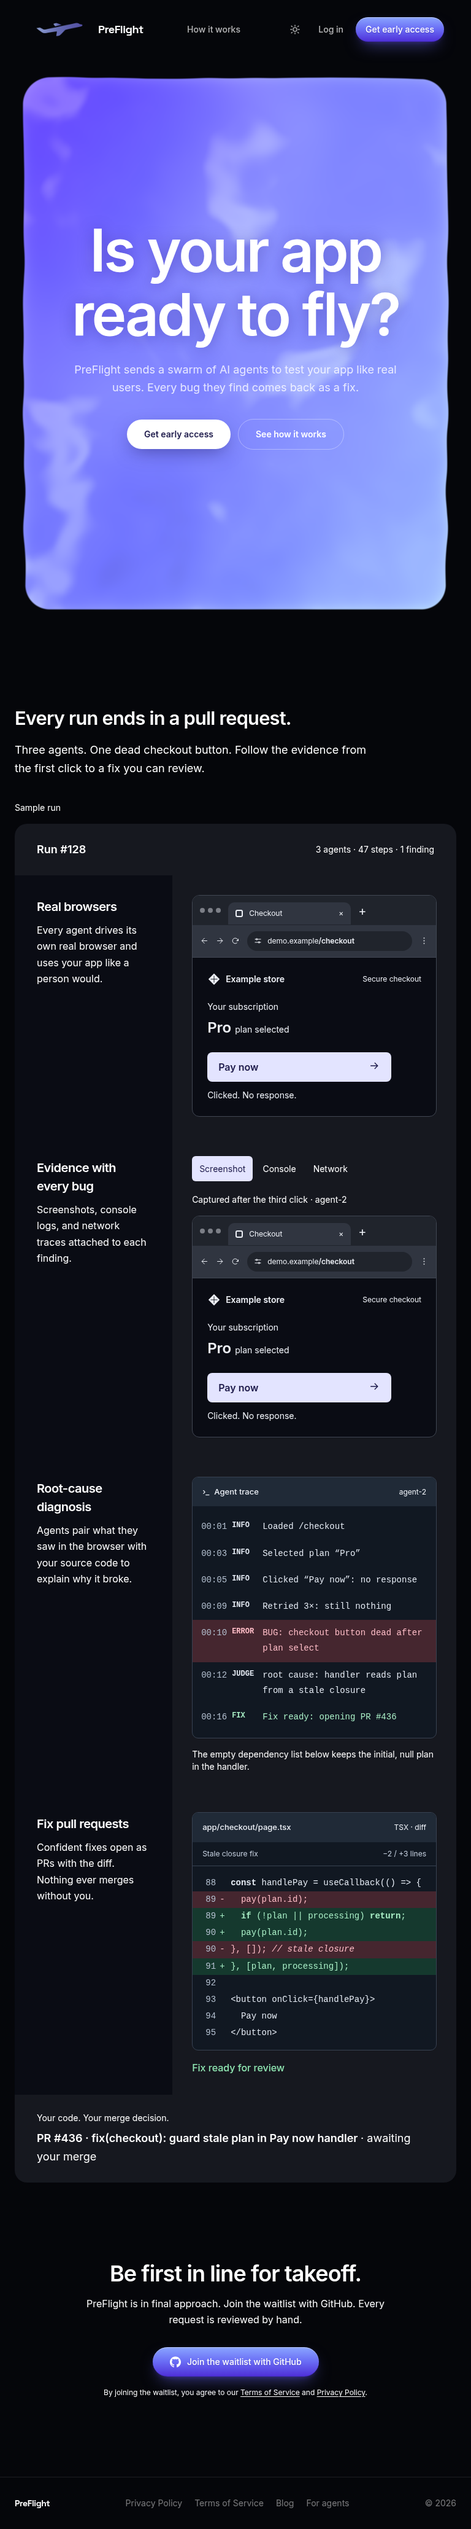
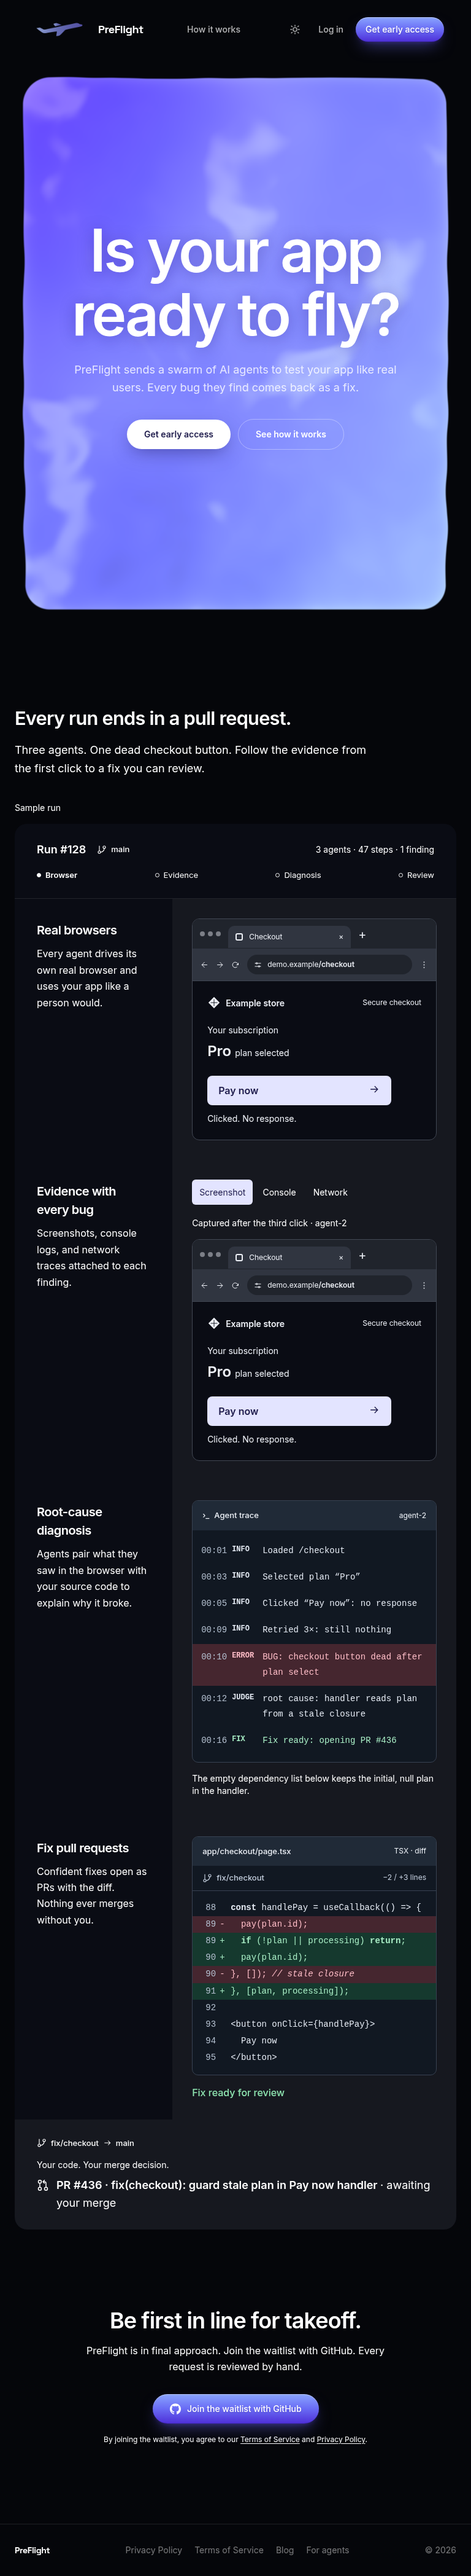
Animate the sample run on scroll with branch and PR context

diff --git a/components/RunScrollSequence.tsx b/components/RunScrollSequence.tsx
@@ -1,0 +1,132 @@
+"use client";
+
+import { useEffect, useRef, useState, type ReactNode } from "react";
+import { BranchIcon } from "./GitIcons";
+
+const STAGES = ["Browser", "Evidence", "Diagnosis", "Review"];
+
+export default function RunScrollSequence({
+  children,
+}: {
+  children: ReactNode;
+}) {
+  const root = useRef<HTMLDivElement>(null);
+  const [stage, setStage] = useState(0);
+
+  useEffect(() => {
+    const element = root.current;
+    if (!element) return;
+    const rows = [...element.querySelectorAll<HTMLElement>(".run-row")];
+    const reduced = window.matchMedia("(prefers-reduced-motion: reduce)");
+    const animations = new Set<Animation>();
+    const seen = new WeakSet<Element>();
+    let frame = 0;
+
+    // Animate only on entry: the underlying server-rendered content is always visible.
+    const observer = new IntersectionObserver(
+      (entries) => {
+        for (const entry of entries) {
+          if (!entry.isIntersecting || seen.has(entry.target)) continue;
+          seen.add(entry.target);
+          observer.unobserve(entry.target);
+          if (reduced.matches) continue;
+          const target = entry.target;
+          const animation = target.animate(
+            [
+              { opacity: 0.2, transform: "translateY(28px)" },
+              { opacity: 1, transform: "translateY(0)" },
+            ],
+            {
+              duration: 650,
+              delay: target.matches(".run-annotation") ? 130 : 0,
+              easing: "cubic-bezier(0.16, 1, 0.3, 1)",
+              fill: "backwards",
+            },
+          );
+          animations.add(animation);
+          animation.onfinish = () => animations.delete(animation);
+        }
+      },
+      { threshold: 0.12, rootMargin: "0px 0px -8% 0px" },
+    );
+    element
+      .querySelectorAll(".run-pane, .run-annotation")
+      .forEach((target) => observer.observe(target));
+    const intro = element.parentElement?.querySelector(".run-intro");
+    if (intro) observer.observe(intro);
+    const payoff = element.querySelector(".run-pr");
+    if (payoff) observer.observe(payoff);
+
+    const sync = () => {
+      frame = 0;
+      const start = rows[0].getBoundingClientRect().top;
+      const end = rows[rows.length - 1].getBoundingClientRect().bottom;
+      const guide = window.innerHeight * 0.55;
+      const progress = Math.min(
+        1,
+        Math.max(0, (guide - start) / (end - start)),
+      );
+      element.style.setProperty("--run-progress", String(progress));
+      let current = 0;
+      rows.forEach((row, index) => {
+        if (row.getBoundingClientRect().top <= guide) current = index;
+      });
+      setStage((previous) => (previous === current ? previous : current));
+    };
+    const schedule = () => {
+      if (!frame) frame = requestAnimationFrame(sync);
+    };
+    const onMotionChange = () => {
+      if (reduced.matches) {
+        animations.forEach((animation) => animation.cancel());
+        animations.clear();
+      }
+    };
+    const resize = new ResizeObserver(schedule);
+    resize.observe(element);
+    sync();
+    window.addEventListener("scroll", schedule, { passive: true });
+    window.addEventListener("resize", schedule);
+    reduced.addEventListener("change", onMotionChange);
+    return () => {
+      cancelAnimationFrame(frame);
+      observer.disconnect();
+      resize.disconnect();
+      animations.forEach((animation) => animation.cancel());
+      window.removeEventListener("scroll", schedule);
+      window.removeEventListener("resize", schedule);
+      reduced.removeEventListener("change", onMotionChange);
+    };
+  }, []);
+
+  return (
+    <div ref={root} data-ui="annotated-run" className="run-artifact">
+      <header className="run-header run-scroll-header">
+        <div className="run-header-details">
+          <p className="text-lg font-semibold">Run #128</p>
+          <span className="run-branch">
+            <BranchIcon />
+            main
+          </span>
+          <p className="text-sm">3 agents · 47 steps · 1 finding</p>
+        </div>
+        <ol className="run-stages" aria-label="Sample run stages">
+          {STAGES.map((label, index) => (
+            <li
+              key={label}
+              aria-current={stage === index ? "step" : undefined}
+              data-complete={index < stage}
+            >
+              <span className="run-stage-dot" aria-hidden="true" />
+              {label}
+            </li>
+          ))}
+        </ol>
+        <div className="run-scroll-track" aria-hidden="true">
+          <span />
+        </div>
+      </header>
+      {children}
+    </div>
+  );
+}

diff --git a/app/globals.css b/app/globals.css
@@ -222,7 +222,7 @@ body {
 /* One annotated product fragment; all sample code wraps at narrow widths. */
 .annotated-run { padding-block: 88px; }
 .run-intro h2 { max-width: 760px; font-size: clamp(1.875rem, 4vw, 3rem); line-height: 1.12; }
-.run-artifact { border-radius: 20px; overflow: hidden; background: var(--surface); }
+.run-artifact { border-radius: 20px; overflow: clip; background: var(--surface); }
 .run-header { display: flex; flex-wrap: wrap; align-items: center; justify-content: space-between; gap: 12px; padding: 24px; background: var(--panel); }
 .run-row { display: grid; grid-template-columns: minmax(0, 1fr); }
 .run-annotation { padding: 28px 24px 16px; }
@@ -309,3 +309,25 @@ body {
 
 .sample-store-icon { width: 22px; height: 22px; flex-shrink: 0; }
 .sample-pay-arrow { width: 20px; height: 20px; fill: none; stroke: currentColor; stroke-width: 1.6; flex-shrink: 0; }
+
+/* A scroll-led run: the header stays with the evidence as the stages advance. */
+.run-scroll-header { position: sticky; top: 84px; z-index: 20; display: block; background: var(--surface); border-bottom: 1px solid var(--line); }
+.run-header-details { display: flex; align-items: center; flex-wrap: wrap; gap: 10px 18px; }
+.run-header-details > p:last-child { margin-left: auto; }
+.run-branch { display: inline-flex; align-items: center; gap: 7px; flex-wrap: wrap; font-size: 13px; font-weight: 500; }
+.run-stages { display: flex; justify-content: space-between; flex-wrap: wrap; gap: 8px 12px; margin-top: 18px; font-size: 13px; }
+.run-stages li { display: flex; align-items: center; gap: 7px; }
+.run-stage-dot { width: 7px; height: 7px; border: 1px solid currentColor; border-radius: 50%; }
+.run-stages li[aria-current="step"] { font-weight: 600; }
+.run-stages li[aria-current="step"] .run-stage-dot, .run-stages li[data-complete="true"] .run-stage-dot { background: currentColor; }
+.run-scroll-track { position: absolute; bottom: -1px; left: 0; right: 0; height: 2px; overflow: hidden; }
+.run-scroll-track span { display: block; height: 100%; background: currentColor; transform-origin: left; transform: scaleX(var(--run-progress, 0)); }
+.run-pr-title { display: flex; align-items: flex-start; gap: 12px; margin-top: 8px; }
+.run-pr-title > svg { margin-top: 5px; }
+@media (max-width: 479px) {
+  .run-header-details > p:last-child { width: 100%; margin-left: 0; }
+  .run-stages { font-size: 12px; gap: 8px; }
+  .run-stages li { gap: 5px; }
+}
+
+.run-row, .run-tabs button, .run-evidence-panel { scroll-margin-top: 260px; }

diff --git a/components/ProofChapter.tsx b/components/ProofChapter.tsx
@@ -1,3 +1,5 @@
+import RunScrollSequence from "./RunScrollSequence";
+import { BranchIcon, PullRequestIcon } from "./GitIcons";
 import RunEvidence, { CheckoutSnapshot } from "./RunEvidence";
 import { FixCodeBlock, LogBlock } from "./SampleRunBlocks";
 
@@ -18,11 +20,7 @@ export default function ProofChapter() {
           </p>
         </div>
         <p className="mb-4 mt-10 text-sm">Sample run</p>
-        <div data-ui="annotated-run" className="run-artifact">
-          <header className="run-header">
-            <p className="text-lg font-semibold">Run #128</p>
-            <p className="text-sm">3 agents · 47 steps · 1 finding</p>
-          </header>
+        <RunScrollSequence>
           <div className="run-row">
             <div className="run-annotation">
               <h3>Real browsers</h3>
@@ -113,13 +111,32 @@ export default function ProofChapter() {
             </div>
           </div>
           <footer className="run-pr">
-            <p className="text-sm">Your code. Your merge decision.</p>
-            <p className="mt-2 text-lg font-semibold leading-relaxed">
-              PR #436 · fix(checkout): guard stale plan in Pay now handler{" "}
-              <span className="font-normal">· awaiting your merge</span>
+            <p className="run-branch mb-4">
+              <BranchIcon />
+              fix/checkout{" "}
+              <svg
+                width="14"
+                height="14"
+                viewBox="0 0 24 24"
+                fill="none"
+                stroke="currentColor"
+                strokeWidth="1.75"
+                aria-hidden="true"
+              >
+                <path d="M4 12h16m-6-6 6 6-6 6" />
+              </svg>
+              <span className="sr-only">into</span> main
             </p>
+            <p className="text-sm">Your code. Your merge decision.</p>
+            <div className="run-pr-title">
+              <PullRequestIcon />
+              <p className="text-lg font-semibold leading-relaxed">
+                PR #436 · fix(checkout): guard stale plan in Pay now handler{" "}
+                <span className="font-normal">· awaiting your merge</span>
+              </p>
+            </div>
           </footer>
-        </div>
+        </RunScrollSequence>
       </div>
     </section>
   );

diff --git a/components/GitIcons.tsx b/components/GitIcons.tsx
@@ -1,0 +1,42 @@
+export function BranchIcon() {
+  return (
+    <svg
+      width="16"
+      height="16"
+      viewBox="0 0 24 24"
+      fill="none"
+      stroke="currentColor"
+      strokeWidth="1.75"
+      strokeLinecap="round"
+      strokeLinejoin="round"
+      aria-hidden="true"
+      className="shrink-0"
+    >
+      <path d="M6 3v12M18 9a9 9 0 0 1-9 9" />
+      <circle cx="6" cy="18" r="3" />
+      <circle cx="18" cy="6" r="3" />
+    </svg>
+  );
+}
+
+export function PullRequestIcon() {
+  return (
+    <svg
+      width="20"
+      height="20"
+      viewBox="0 0 24 24"
+      fill="none"
+      stroke="currentColor"
+      strokeWidth="1.75"
+      strokeLinecap="round"
+      strokeLinejoin="round"
+      aria-hidden="true"
+      className="shrink-0"
+    >
+      <circle cx="6" cy="5" r="3" />
+      <circle cx="6" cy="19" r="3" />
+      <circle cx="18" cy="19" r="3" />
+      <path d="M6 8v8M18 16V8a3 3 0 0 0-3-3h-3m3-3-3 3 3 3" />
+    </svg>
+  );
+}

diff --git a/components/SampleRunBlocks.tsx b/components/SampleRunBlocks.tsx
@@ -1,4 +1,5 @@
 import type { ReactNode } from "react";
+import { BranchIcon } from "./GitIcons";
 
 type LogEntry = {
   time: string;
@@ -76,7 +77,11 @@ export function FixCodeBlock() {
         <span className="run-block-meta">TSX · diff</span>
       </figcaption>
       <div className="run-diff-summary">
-        Stale closure fix <span>−2 / +3 lines</span>
+        <span className="run-branch">
+          <BranchIcon />
+          fix/checkout
+        </span>
+        <span>−2 / +3 lines</span>
       </div>
       <pre>
         <code>

diff --git a/docs/landing-review/README.md b/docs/landing-review/README.md
@@ -4,6 +4,8 @@ The separate run demo and numbered feature grid now form one annotated sample ru
 
 Inter and Space Grotesk are self-hosted from Fontsource 5.3.0 with their OFL licenses in `app/fonts`. This preserves the existing font families without build-time Google Fonts requests, which this environment denies. No dependencies or lockfiles changed.
 
+The run now animates on scroll: a sticky header tracks Browser → Evidence → Diagnosis → Review, with a continuous progress line and staggered pane/annotation entrances. Branch icons identify `main` and `fix/checkout`, and the payoff uses a pull-request icon. Animations use transform and opacity, run once per pane, and are disabled for reduced motion; content remains visible without JavaScript.
+
 ## Screenshots
 
 Full-page Chromium screenshots, reduced motion, explicit saved theme. Before images use the original landing components with the same local fonts (Google Fonts was inaccessible); development tooling is hidden. After images use the production build.
@@ -18,6 +20,7 @@ Full-page Chromium screenshots, reduced motion, explicit saved theme. Before ima
 
 - `npm ci`, `npm run typecheck`, `npm run build`, and `git diff --check` pass. No lint or test scripts exist in package.json.
 - Production-server browser checks pass at all six viewport/theme combinations: no document overflow, no code overflow, all h1/h2 headings at most two lines, nav width and x-position unchanged after scrolling, mouse tab selection and keyboard selection work.
+- Scroll checks at 390px and 1440px verify stage changes, increasing progress, sticky header placement, normal-motion entrance animations, reduced-motion suppression and keyboard focus clearing the header. A JavaScript-disabled check verifies all panes and the PR remain visible. See scroll-verification.jsonl.
 - Mobile h1 measures approximately 48px; section headings measure 30px.
 - Axe WCAG A/AA checks cover the new section in both themes and every evidence tab, including 4.5:1 normal-text contrast. See accessibility.jsonl for exact results.
 - CTA hrefs remain `#early-access`, `#how-it-works` and `/login`. Privacy, Terms and the For agents destination return 200. Blog href is unchanged; `/blog` returns 500 without DATABASE_URL, an existing integration requirement. OAuth and waitlist submission were not exercised without credentials.
